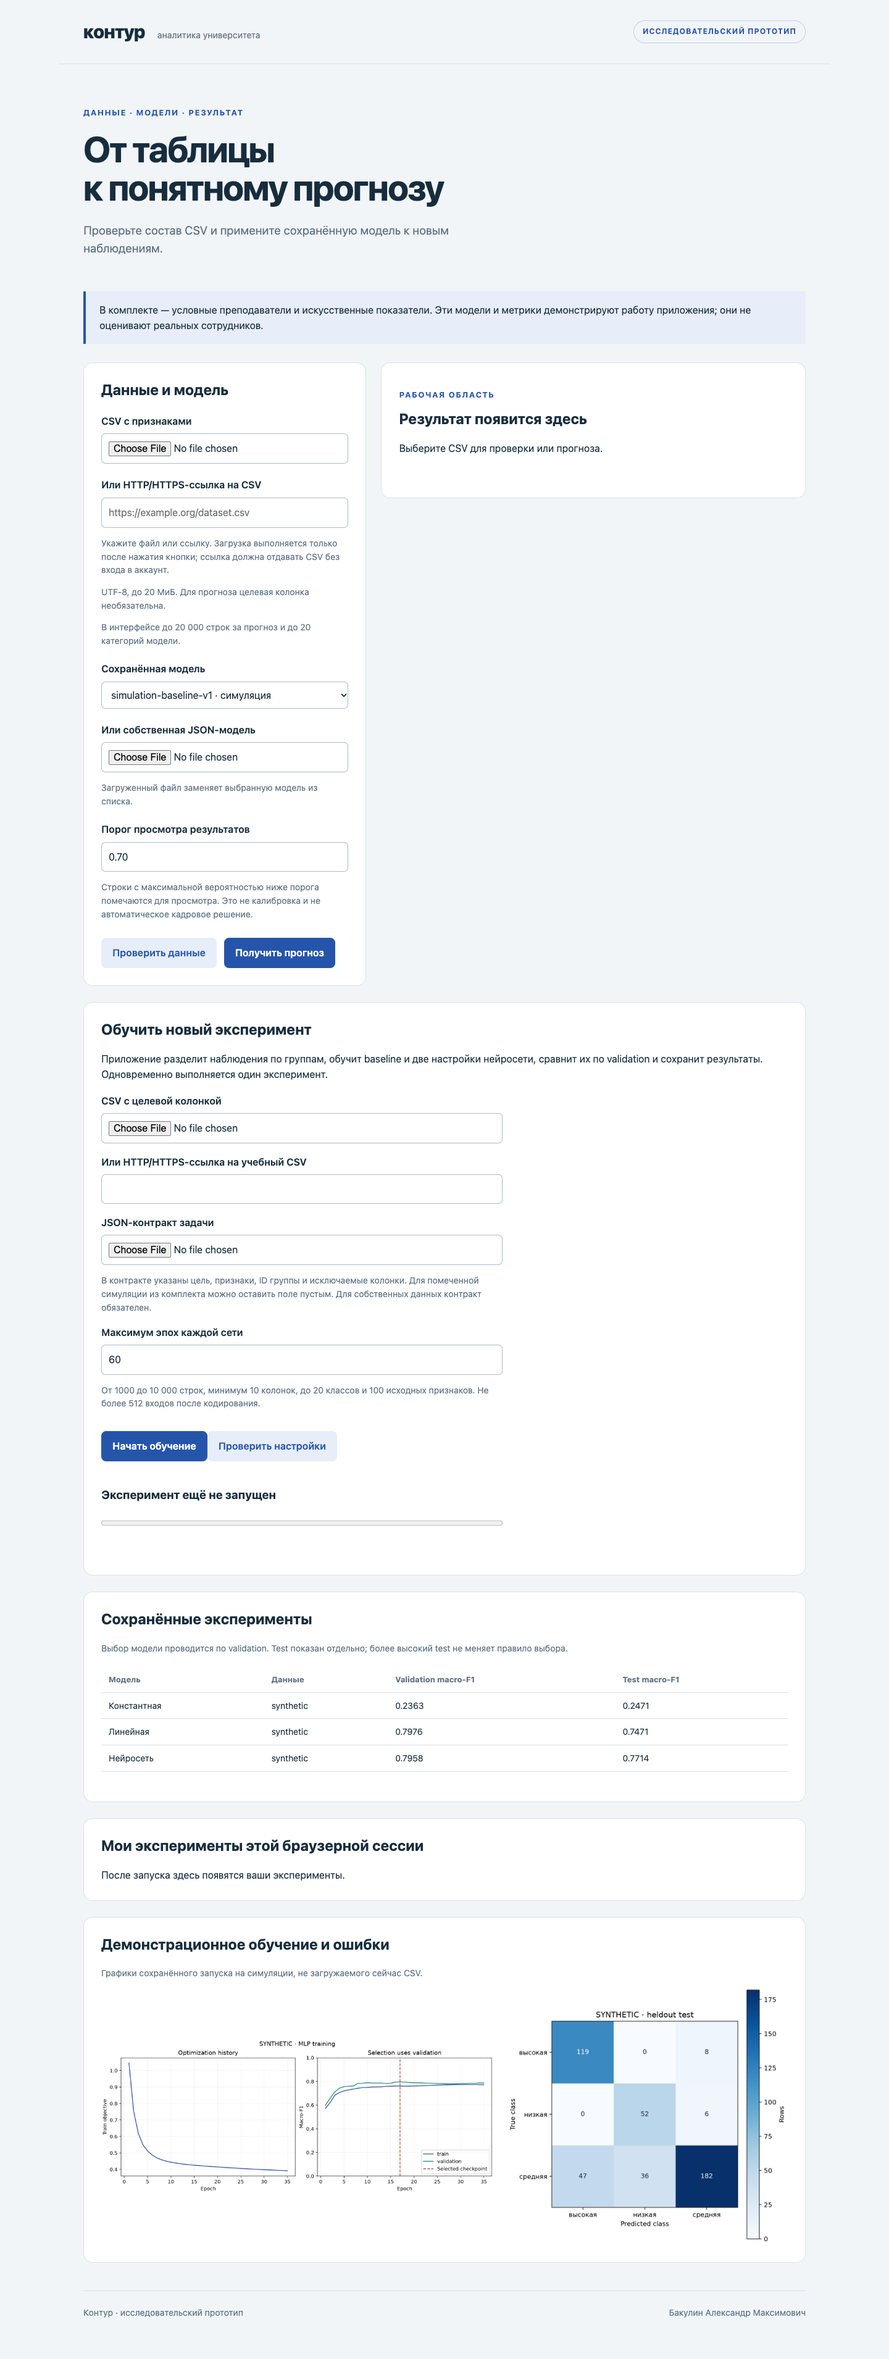
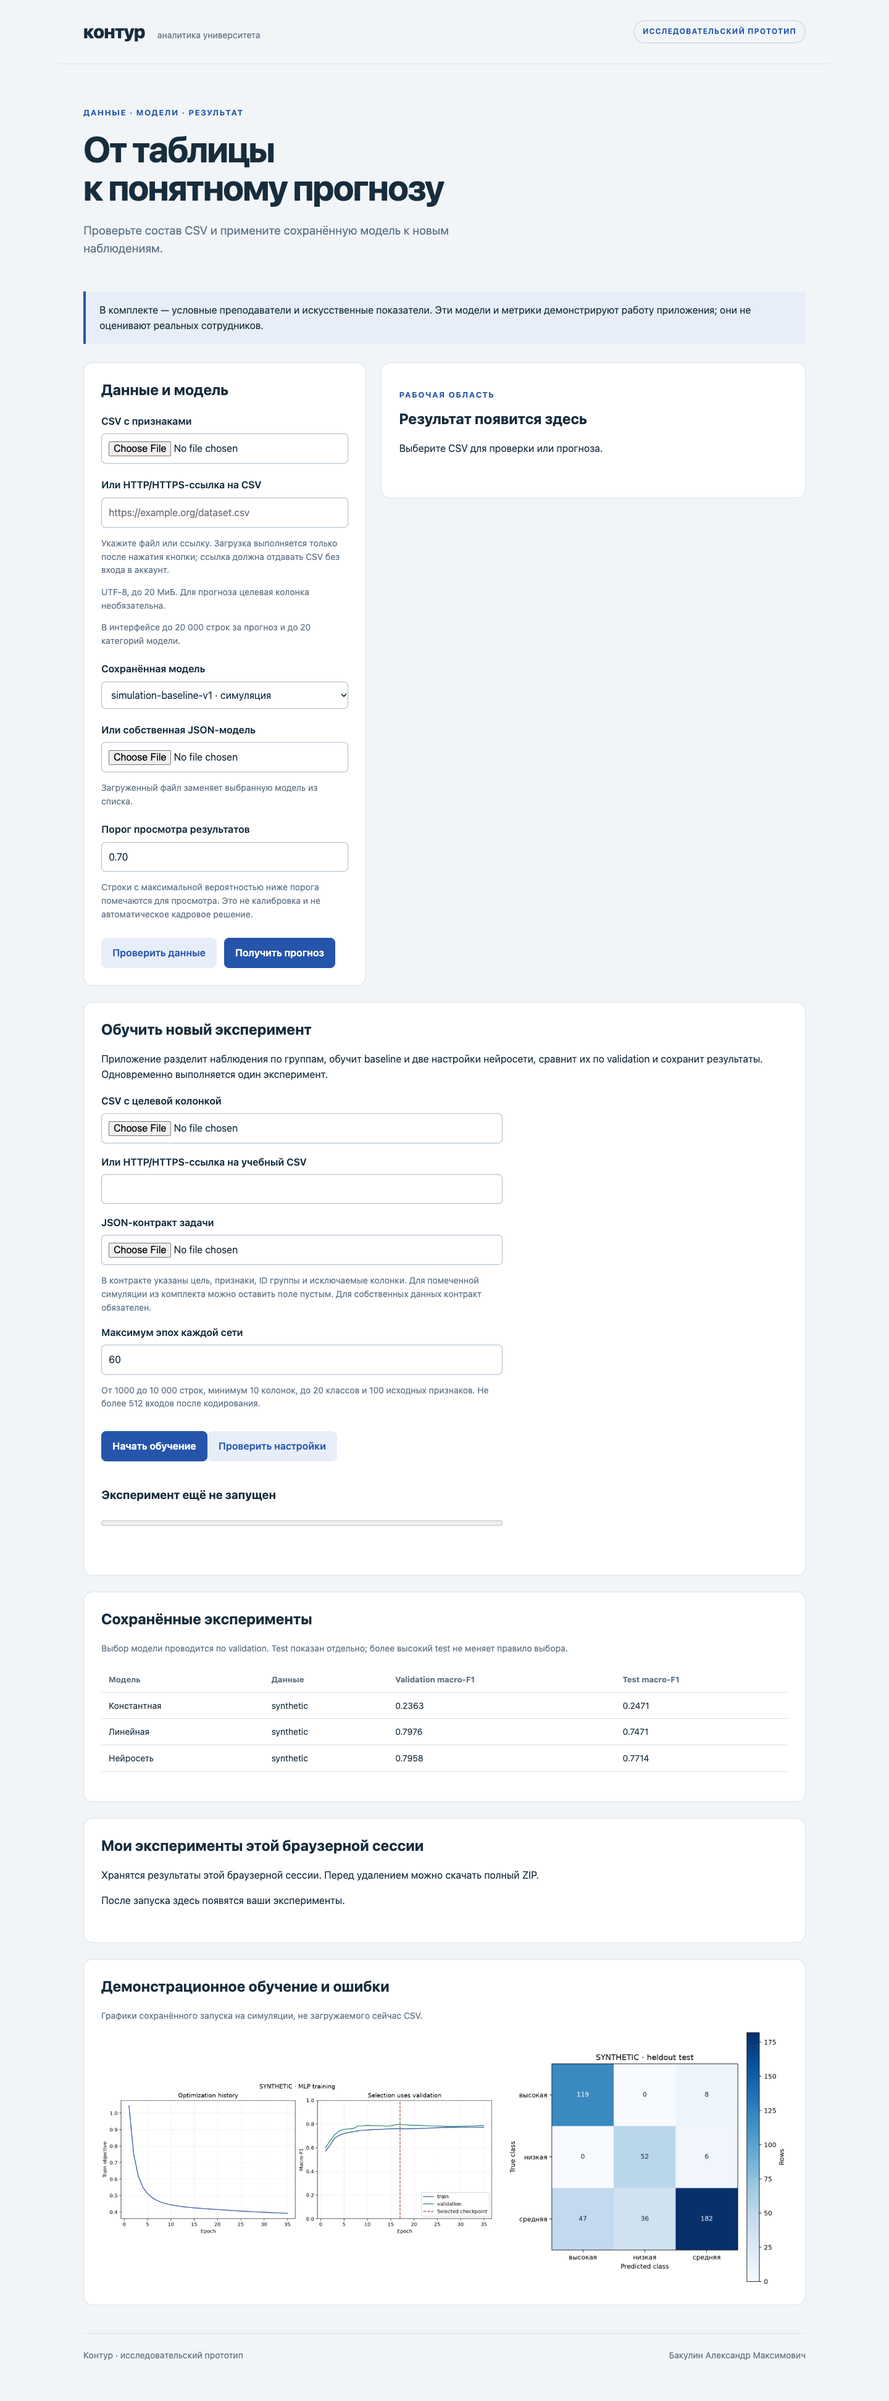
Проверить управление экспериментами и межпроцессное восстановление

diff --git a/scripts/verify_browser.py b/scripts/verify_browser.py
@@ -1,6 +1,8 @@
 """Фактический Chrome: CSV по HTTP, обучение, прогноз и приватные артефакты."""
 import argparse
 import csv
+from datetime import datetime,timedelta,timezone
+import uuid
 import hashlib
 from http.server import BaseHTTPRequestHandler, ThreadingHTTPServer
 from importlib.metadata import version
@@ -129,6 +131,32 @@ def verify(app_python, output):
                     assert context.request.get(url+'/api/jobs/'+cancelled_id).json()['state']=='cancelled'
                     assert context.request.get(url+'/api/jobs/'+cancelled_id+'/download/model.json').status==409
                     checks.append('real_training_cancelled_without_ready_model');shot('cancelled-desktop.png','#training-result')
+                    cancelled_row=page.locator(f'#my-jobs p[data-job-id="{cancelled_id}"]')
+                    expect(cancelled_row.get_by_role('button',name='Удалить результат',exact=True)).to_be_visible(timeout=30000)
+                    page.once('dialog',lambda dialog:dialog.accept())
+                    cancelled_row.get_by_role('button',name='Удалить результат',exact=True).click()
+                    expect(page.locator('#job-stage')).to_have_text('Эксперимент удалён',timeout=30000)
+                    assert context.request.get(url+'/api/jobs/'+cancelled_id).status==404
+                    assert context.request.get(url+'/api/jobs/'+job_id).json()['state']=='completed'
+                    checks.append('owner_deletes_cancelled_job_and_preserves_completed_job')
+                    owner_hash=json.loads((target/'.local/gui-jobs'/job_id/'status.json').read_text())['owner']
+                    for index in range(21):
+                        fixture_id=uuid.uuid4().hex;directory=target/'.local/gui-jobs'/fixture_id;directory.mkdir(mode=0o700)
+                        contents={'id':fixture_id,'owner':owner_hash,'state':'failed','stage':'Учебная запись списка',
+                                  'error':'Искусственная метаданная для проверки страниц, не результат обучения.',
+                                  'progress':0,'epochs':2,'created_at':(datetime.now(timezone.utc)-timedelta(days=2,minutes=index)).isoformat()}
+                        (directory/'status.json').write_text(json.dumps(contents))
+                    page.reload();expect(page.locator('#next-jobs')).to_be_visible(timeout=30000)
+                    page.get_by_role('button',name='Более ранние',exact=True).click()
+                    expect(page.locator('#my-jobs p')).to_have_count(2,timeout=30000)
+                    expect(page.locator('#first-jobs')).to_be_visible()
+                    checks.append('older_job_pages_with_21_explicit_metadata_fixtures')
+                    panel=page.get_by_role('heading',name='Мои эксперименты этой браузерной сессии',exact=True).locator('..')
+                    panel.screenshot(path=str(output/'jobs-history-desktop.png'));screens.append('jobs-history-desktop.png')
+                    page.set_viewport_size({'width':390,'height':844})
+                    panel.screenshot(path=str(output/'jobs-history-mobile.png'));screens.append('jobs-history-mobile.png')
+                    assert page.evaluate('document.documentElement.scrollWidth<=document.documentElement.clientWidth+1')
+
                     checks.append('mobile_390_no_document_overflow');assert not errors,errors;checks.append('no_browser_page_errors')
                     browser_version=browser.version;context.close();browser.close()
             finally:
@@ -139,7 +167,7 @@ def verify(app_python, output):
         assert len(source_requests)>=3
     result={'status':'passed','browser':'Chrome '+browser_version,'playwright':version('playwright'),'source_sha256':sources,
         'checks':checks,'screenshots':screens,'viewports':[[1440,1000],[390,844]],'training_epochs_for_smoke':2,
-        'limitations':['Only synthetic data; two smoke epochs do not replace the saved full research experiment.','One browser, not a full accessibility or cross-browser audit.']}
+        'limitations':['Only synthetic data; two smoke epochs do not replace the saved full research experiment.','One browser, not a full accessibility or cross-browser audit.','Pagination uses 21 artificial failed-job metadata records; these are not fabricated model metrics.']}
     (output/'browser.json').write_text(json.dumps(result,ensure_ascii=False,indent=2)+'\n');print('Chrome acceptance passed:',len(checks),'checks')
 
 

diff --git a/docs/ACCEPTANCE_MATRIX.md b/docs/ACCEPTANCE_MATRIX.md
@@ -11,7 +11,7 @@
 | Сравнение моделей | Dummy/linear/MLP; linear выбран по validation macro-F1. Test не выбирает семейство |
 | Accuracy≥70% | На сохранённой симуляции test linear76.00%, MLP78.44%; это не качество оценки реальных людей. Dummy остаётся контрольным baseline |
 | Сохранение/применение | Комплектные model.json, данные/конфигурации/SHA; прогноз без обязательного обучения, без загрузки произвольногоpickle |
-| Объём кода | 2229 AST-инструкций /2521 непустых Python-строк по scripts/code_size.py; методика описана, формальная трактовка логической строки требует сверки |
+| Объём кода | 2349 AST-инструкций /2646 непустых Python-строк по scripts/code_size.py; методика описана, формальная трактовка логической строки требует сверки |
 | Основной GUI-сценарий | Файл/HTTP-ссылка → профиль → обучение → сравнение/графики → модель → прогноз/CSV; настоящийChrome проверен |
 | Минимум4 метода испытаний | Модульные, интеграционные, граничные/негативные, проверки изоляции/происхождения, полная браузерная приёмка и чистая установка; доказательства в tests и reports |
 | Notebook/зависимости | Все14кодовых ячеек исполнялись в новомvenv, requirements.txt фиксируетверсии, сохранён полный исследовательский пример |
@@ -23,3 +23,5 @@
 Нельзя представлять синтетическую цель как измеренную эффективность университета. Пользователь выбрал симуляцию для разработки; она продолжает использоваться без повторного запроса данных. Для формального исследования остаются согласование отклонения с руководителем/переход к подходящему реальному набору, валидность целевого показателя и оформление окончательного отчёта. Работающее приложение этими открытыми научными условиями не подменяется.
 
 Новый браузерный цикл:12 сценариев. Проверка настроек возвращает2100/450/450 строк и1050/225/225 групп, не создавая задание; SHA проверки входит в скачанный ZIP. Следующий настоящий запуск остановлен из интерфейса, состояниеcancelled подтверждено, скачивание частичной модели закрыто. Новые desktop/mobile-снимки просмотрены. Все82 теста проходят. Этот короткий запуск не заменяет сохранённое полное исследование.
+
+24ноября:92 теста и14 сценариевChrome прошли. Межпроцессный слот проверен двумя менеджерами и отдельным процессом, включая освобождение после terminate. Восстановление новых заданий проверяет маркер исполнителя/владение слотом, а не толькоPID; старые записи без runner_id сохраняют прежнюю совместимость и соответствующее ограничение. JSONпишется атомарно через уникальные временные файлы. В браузере удалён собственный настоящий отменённый запуск, завершённый сохранён; пагинация проверена21 явно искусственной failed-метаданной, не метриками обучения. Новые desktop/mobile-области просмотрены. ВеткаWindows-блокировок отдельно не проверялась.

diff --git a/docs/PROGRESS.md b/docs/PROGRESS.md
@@ -127,3 +127,5 @@ main.py без аргументов теперь запускает GUI; --check
 Новый запуск хранит идентификатор исполнителя и маркер слота под межпроцессной блокировкой. Потерявший слот эксперимент сохраняется как прерванный даже при повторном использовании PID; живой другой процесс не объявляется погибшим. Запись JSON использует уникальные временные файлы, конкурентные обновления не сталкиваются. Три новых сценария восстановления/гонки и существующие задания пройдены. История: 39 общих, 38 после основы, осталось 12 до50безосновы.
 
 История получила курсорные страницы с проверкой владельца. Удаление требует CSRF и явного подтверждения UUID, активное обучение защищено; результат атомарно убирается из каталога, незавершённая очистка отмечается. Устаревший ответ другого выбранного задания не подменяет экран. Четыре сценария приватности, пагинации, активного слота и ошибки очистки вместе с интеграцией заданий пройдены. История: 40 общих, 39 после основы, осталось 11 до50безосновы.
+
+Все92 теста и14Chrome-сценариев прошли. Браузер удалил настоящий собственный cancelled-запуск и сохранил готовый; страницы истории проверены21 явной искусственной failed-метаданной. Новые desktop/mobile-области просмотрены. Кодv6:2349AST/2646непустыхPython-строк; Windows-ветка блокировок отдельно не проверялась, legacyPID-ограничение сохранено честно. История: 41 общих, 40 после основы, осталось 10 до50безосновы.

diff --git a/README.md b/README.md
@@ -29,3 +29,5 @@ python3 -m venv .venv
 [Команды обучения и анализа](docs/CLI.md) доступны через `main.py`; notebook — `notebooks/research.ipynb`. Локальное ядро notebook создаётся внутри `.local`. Пошаговый запуск — [docs/LOCAL_RUN.md](docs/LOCAL_RUN.md), математика и ограничения — [docs/MATHEMATICS.md](docs/MATHEMATICS.md), фактические проверки — [docs/TESTING.md](docs/TESTING.md).
 
 Перед обучением кнопка «Проверить настройки» проверяет контракт, входные признаки и независимое разбиение без запуска моделей. «Остановить обучение» завершает собственный эксперимент после текущего этапа или эпохи; незавершённая модель не предлагается для прогноза. CSV ограничен50 000 строк,256 колонок,2 000 000 ячеек и256 Ки символов на запись; у обучения и прогноза действуют более строгие пределы интерфейса.
+
+Обучение сериализовано между копиями приложения для одной папки проекта. Прерванные новые задания распознаются по владению слотом, их исходники сохраняются для нового запуска. В истории есть страницы старых результатов; завершённый, ошибочный или остановленный эксперимент можно удалить после подтверждения. Активное задание сначала нужно остановить. При ошибке удаления файлов результат исчезает из списка, а интерфейс сообщает об ожидающей очистке.

diff --git a/docs/CODE_SIZE.md b/docs/CODE_SIZE.md
@@ -1,5 +1,5 @@
 # Объём собственного Python-кода
 
-На23.11.2026:2229 AST-инструкций и2521 непустых строк без docstring. Команда: `.venv/bin/python scripts/code_size.py --output .local/code-size.json`. Пофайловый результат — reports/code-size-v5.json.
+На23.11.2026:2349 AST-инструкций и2646 непустых строк без docstring. Команда: `.venv/bin/python scripts/code_size.py --output .local/code-size.json`. Пофайловый результат — reports/code-size-v6.json.
 
 Считаются main.py и исходные Python-модули university_analytics. Исключены тесты, scripts, notebook, HTML, JavaScript, данные и сериализованные веса. Метод AST считает определения, управляющие и исполняемые инструкции; несколько инструкций на строке считаются отдельно. Это прозрачный технический подсчёт, который следует сверить с методикой проверки индивидуального задания. Количество строк не заменяет работоспособность и реальный датасет.
